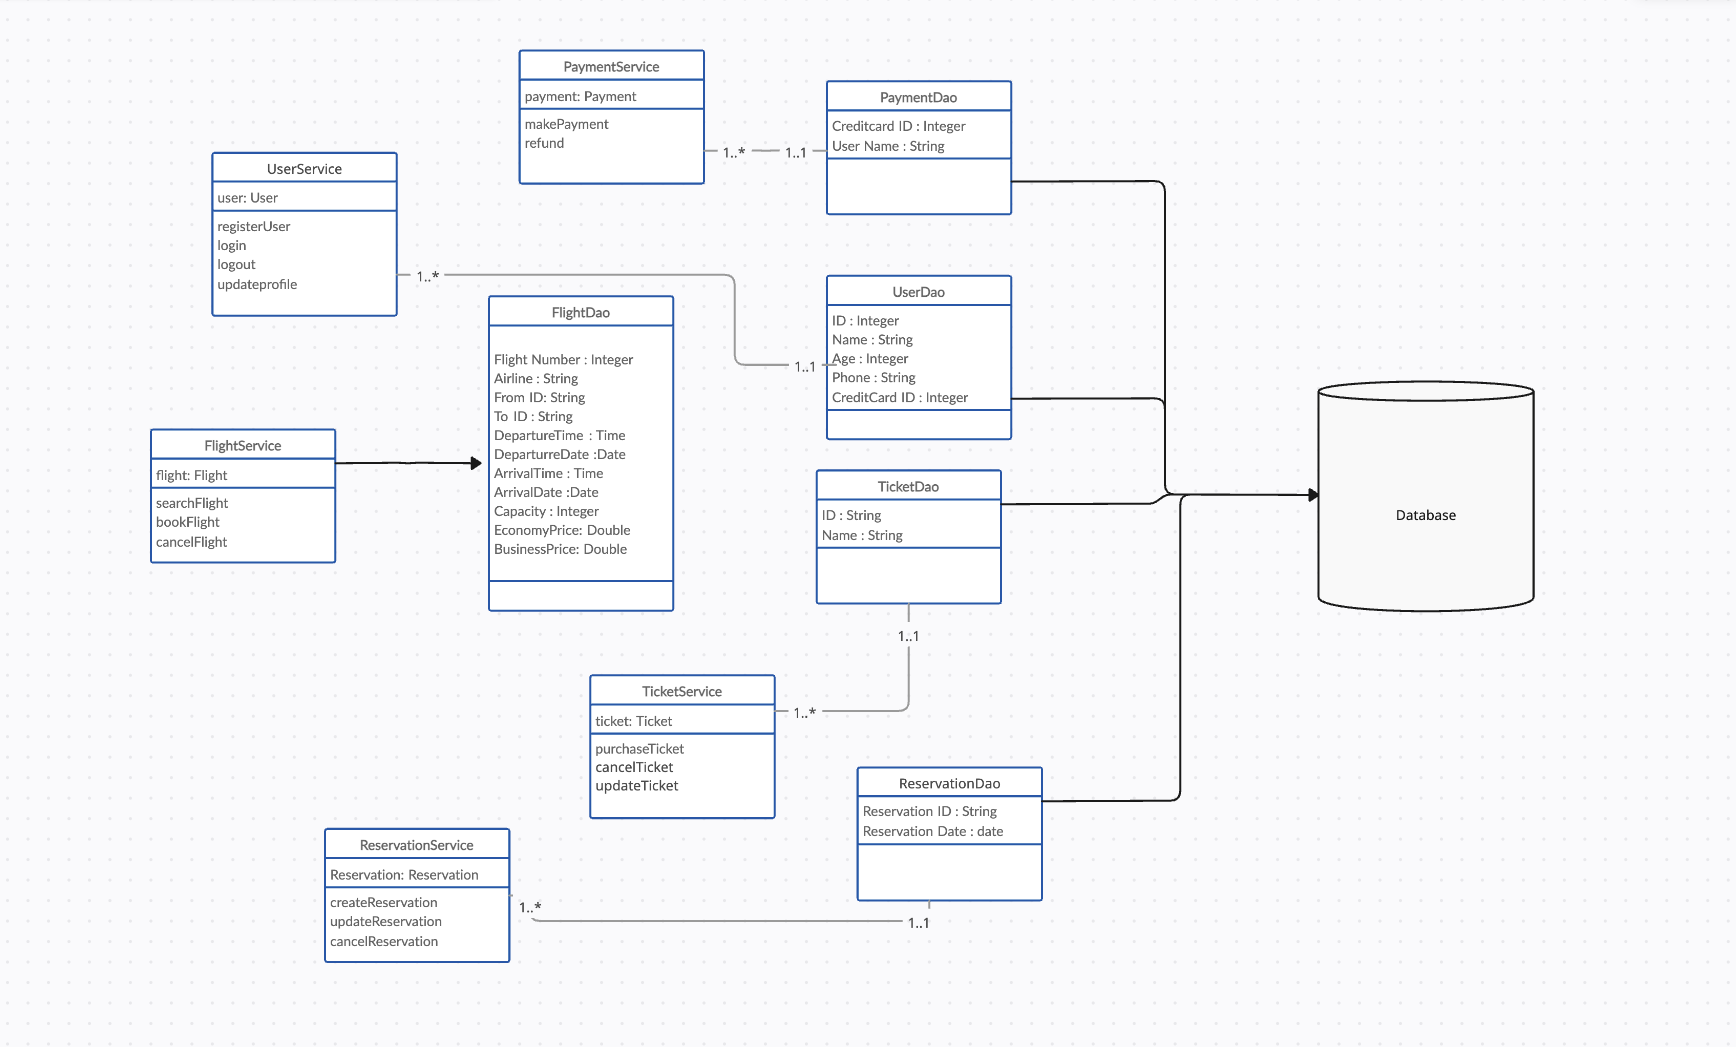
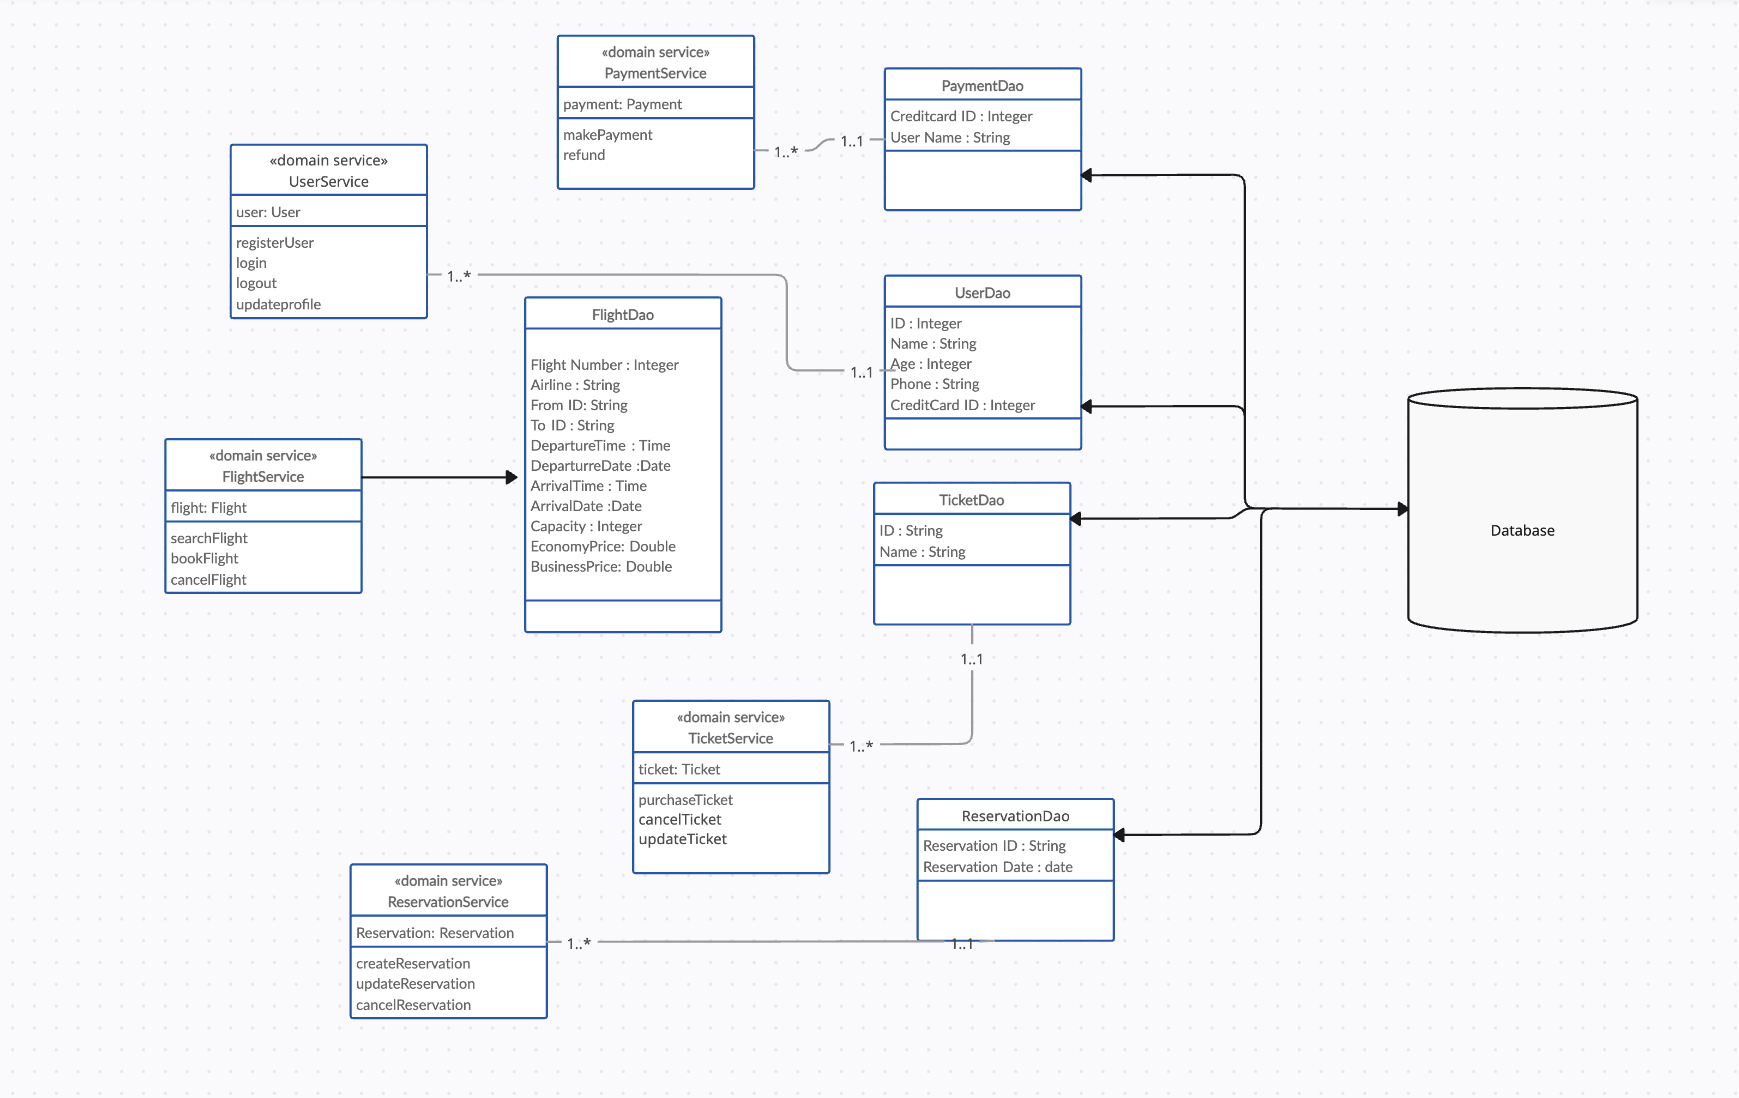
Update architecture design md file

diff --git a/ArchitectureDesign.md b/ArchitectureDesign.md
@@ -1,6 +1,6 @@
 # Architecture and Design
 
-![class diagram](class-diagram.png)
+![class diagram](class-diagram-with-valued-objects.png)
 
 **Value Objects and Entities:**
 
